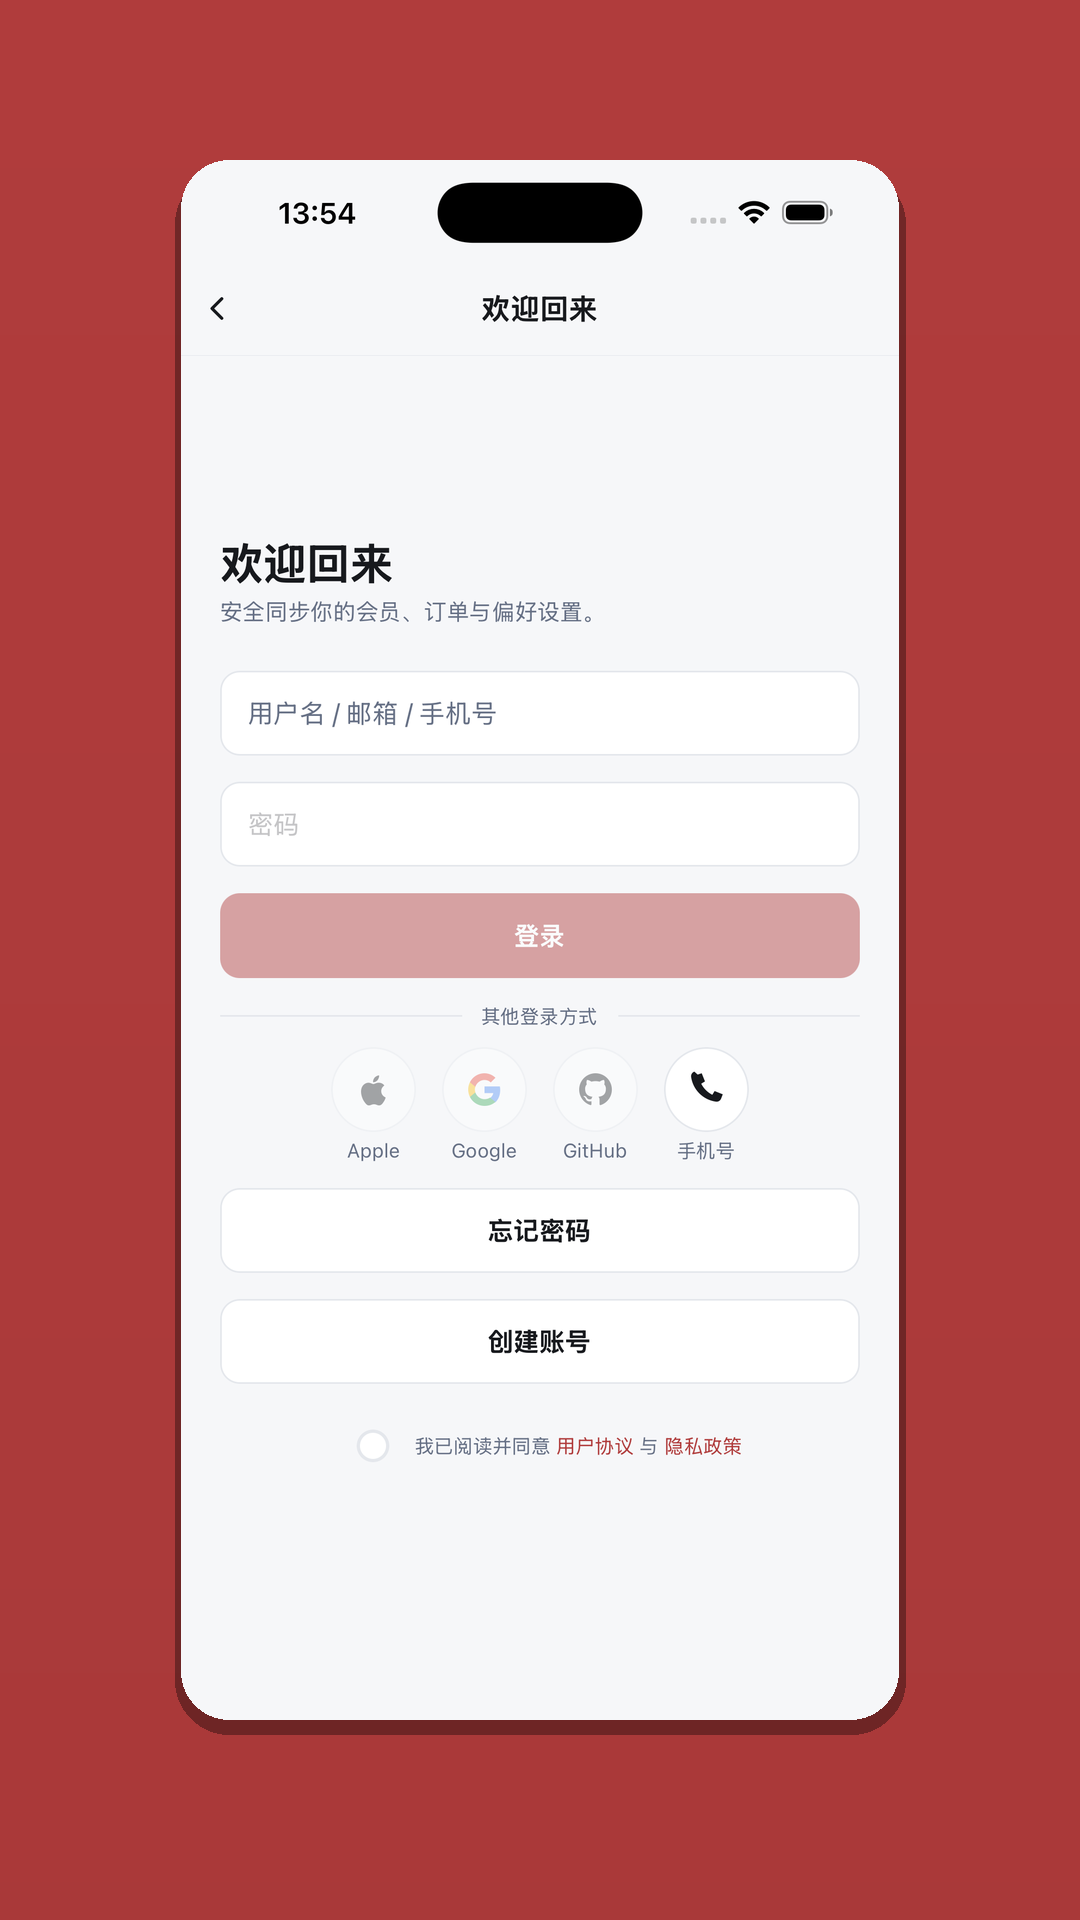
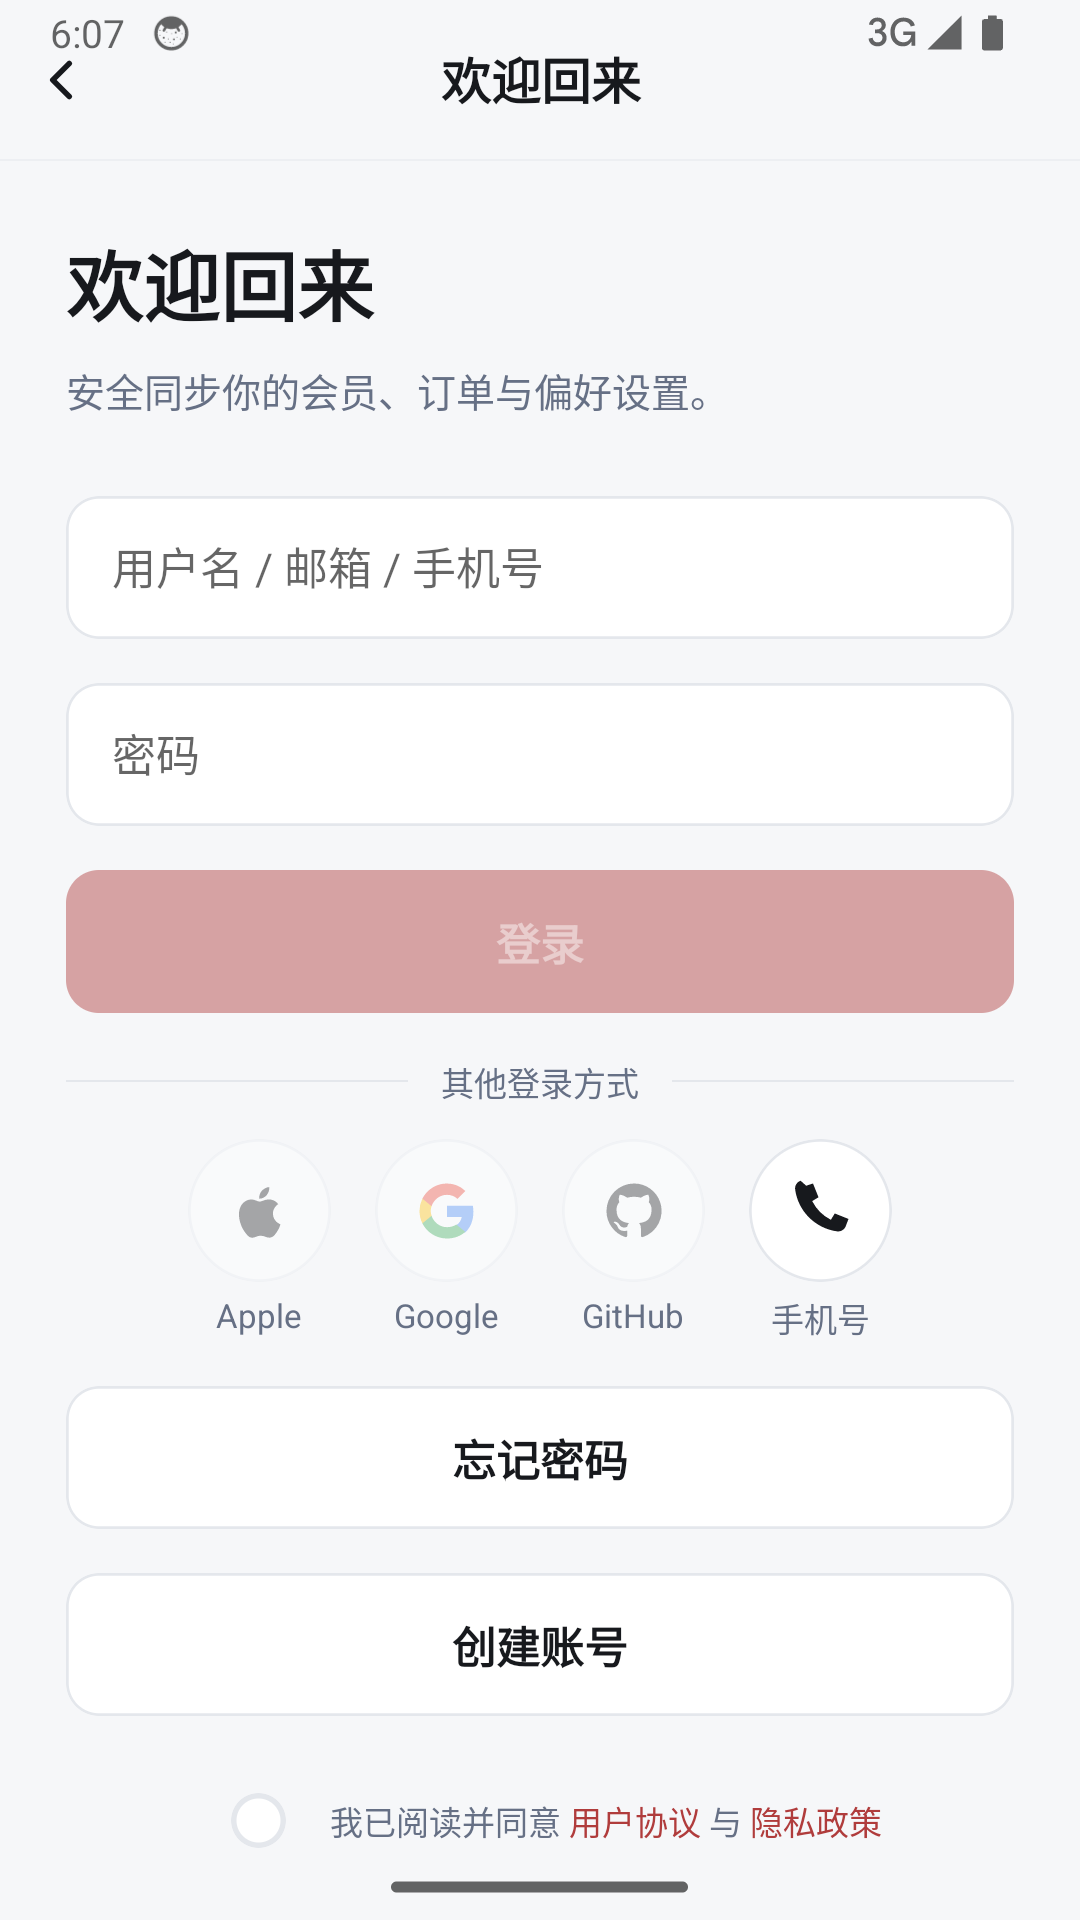
docs(release): iOS App Store 5 张截图 + Play 登录图更新 + checklist 键盘避让销项

diff --git a/docs/store-assets/submission-checklist.md b/docs/store-assets/submission-checklist.md
@@ -72,7 +72,9 @@
   → 沙盒升级审批 30 秒内截取(参考 git 历史中 e2e/scripts/.fresh-approval.mjs 的删除前版本)
 
 ## 附录 B:本次发现的待修问题(非发布阻塞,建议排期)
-1. **6.9" 键盘避让不足**:composer 发送键被键盘遮住,手机上无法直接发消息(App Store 截图流程被迫绕道)
+1. ~~**6.9" 键盘避让不足**~~ ✅ 已修复(2026-08-28 傍晚):引入 `react-native-keyboard-controller`
+   (App.tsx KeyboardProvider + ConversationScreen 根部 KAV padding),双平台验证 composer
+   浮于键盘上方;随 Composer 重构一并提交(注意 iOS 侧需 pod install,已在本地执行)
 2. **会话历史不渲染**:重进会话后消息区空白,仅直播事件可见(sessions.open 快照链路)
 3. **作品预览卡「拉取中」**:43KB 单文件预览拉取不完成(复现:作品列表 → snake.html)
 4. **审批摘要英文**:等待审批卡的 summary 是 worker 英文原文,建议中文化
